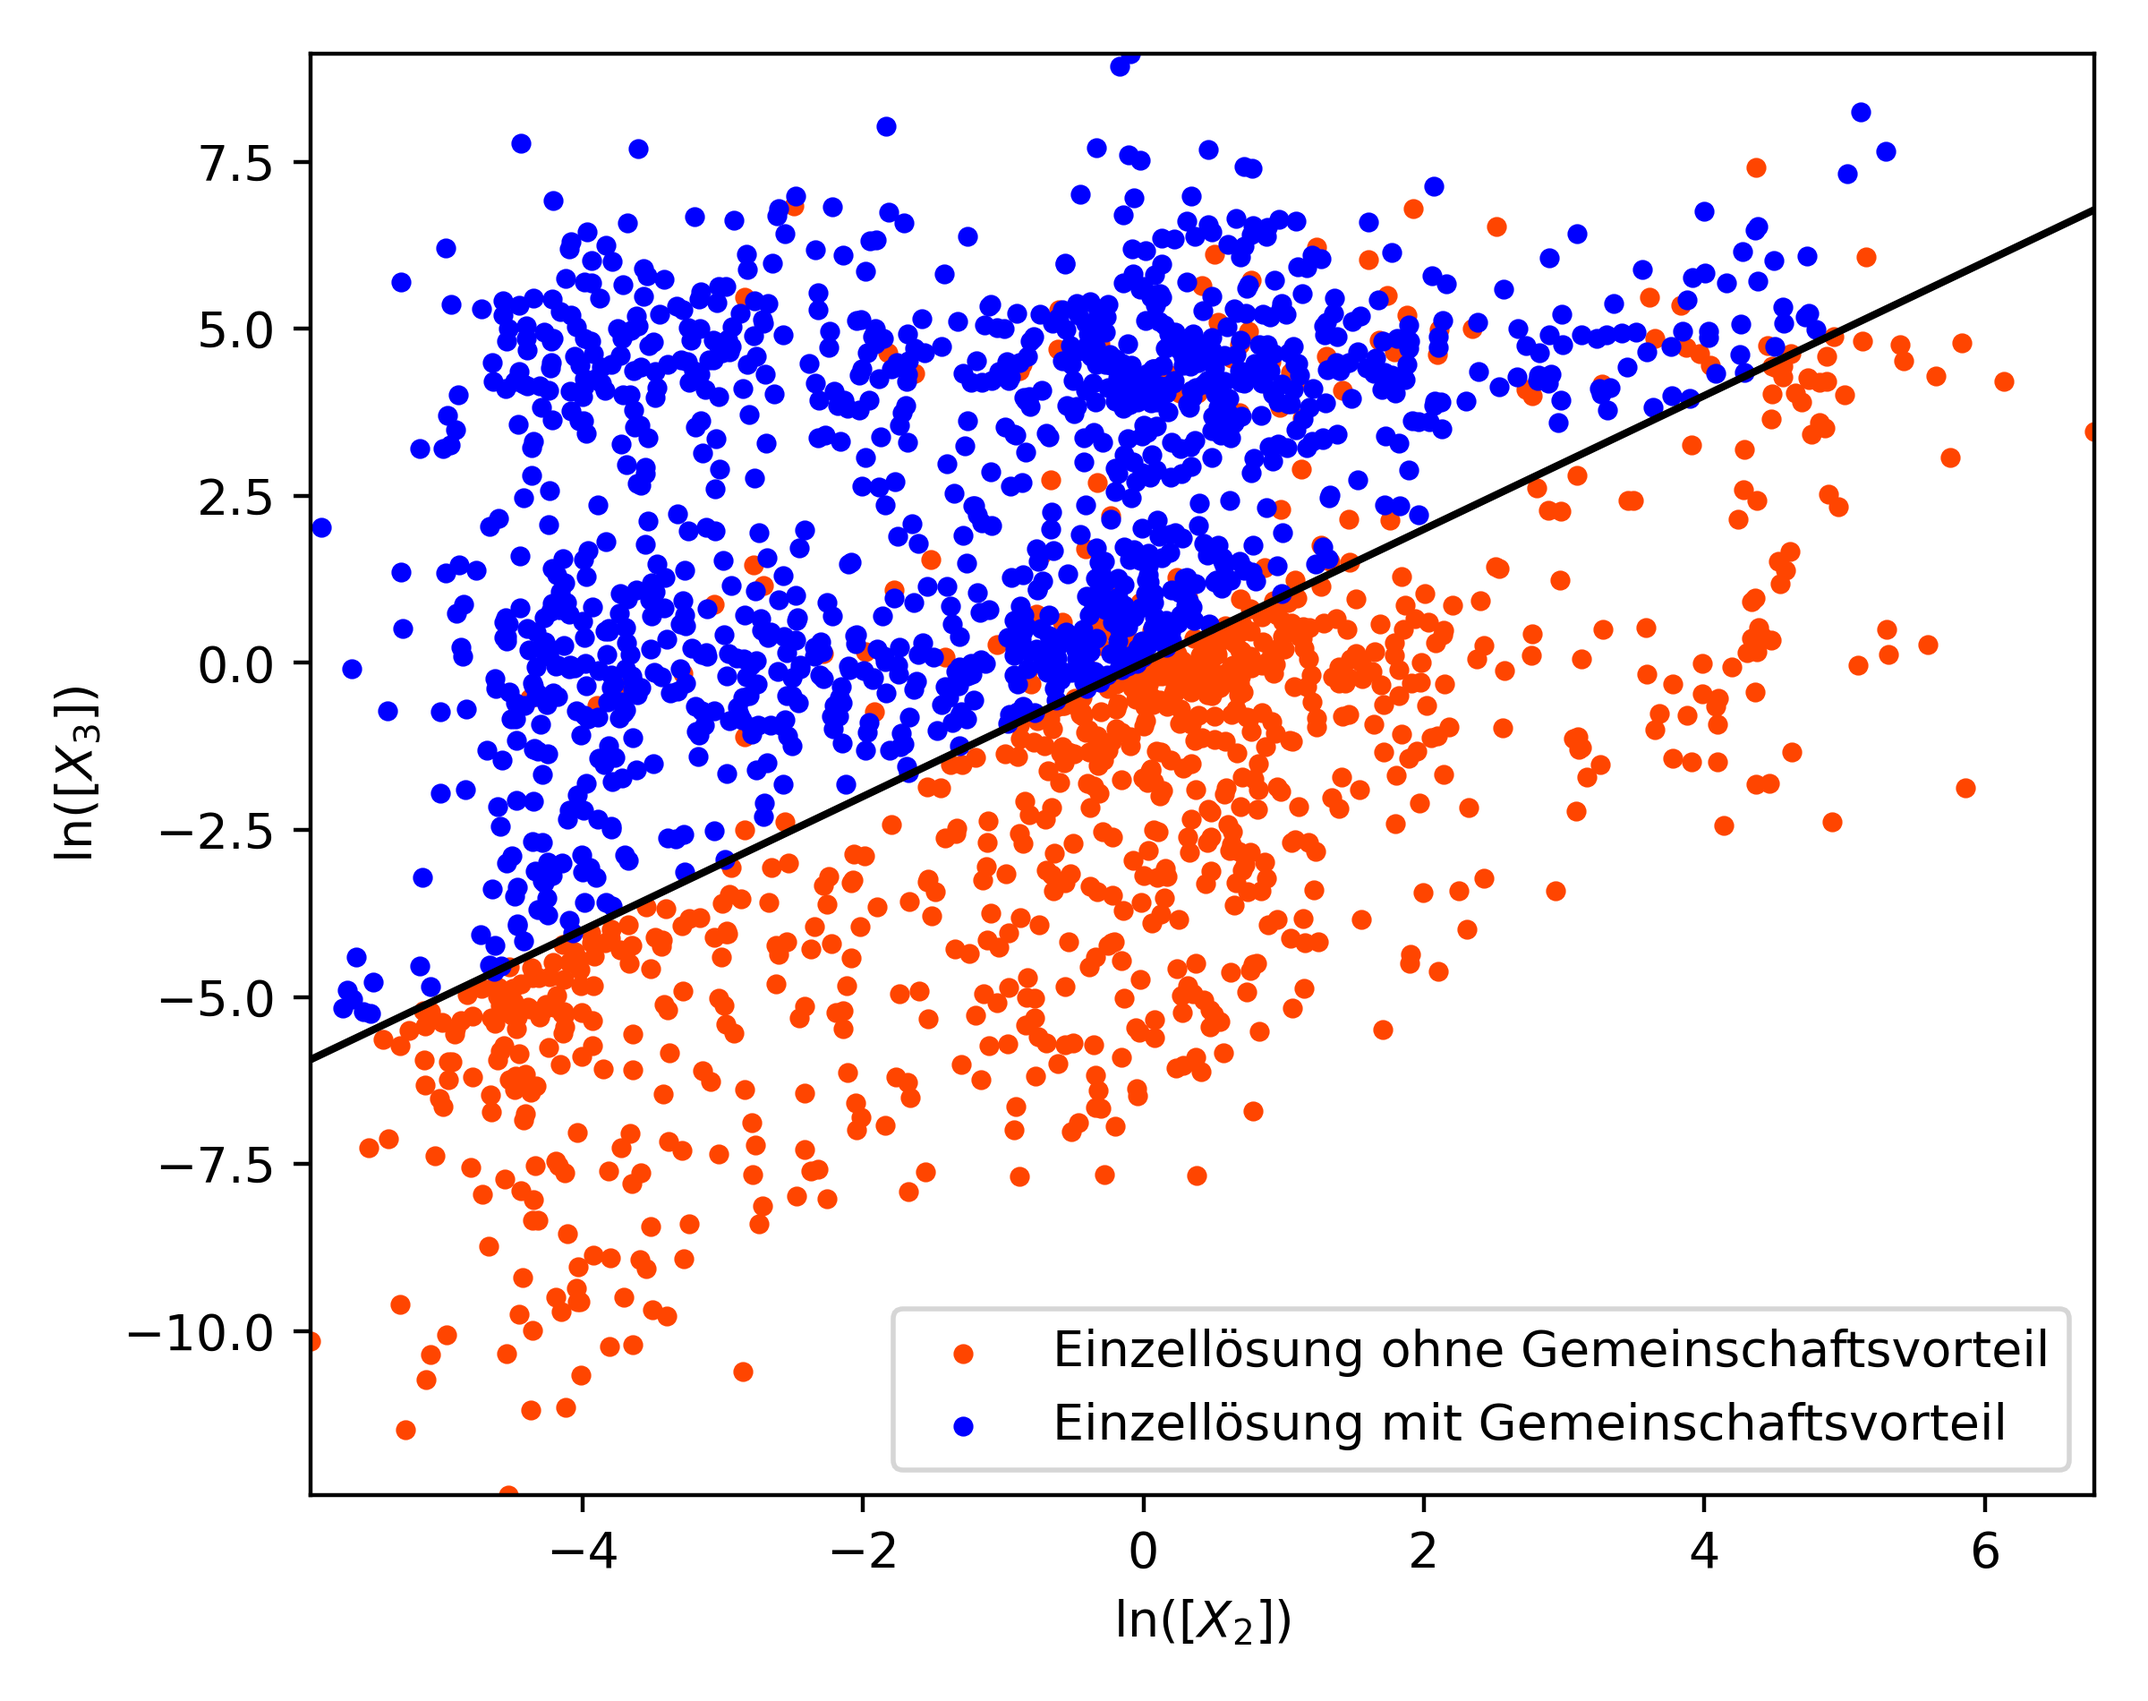
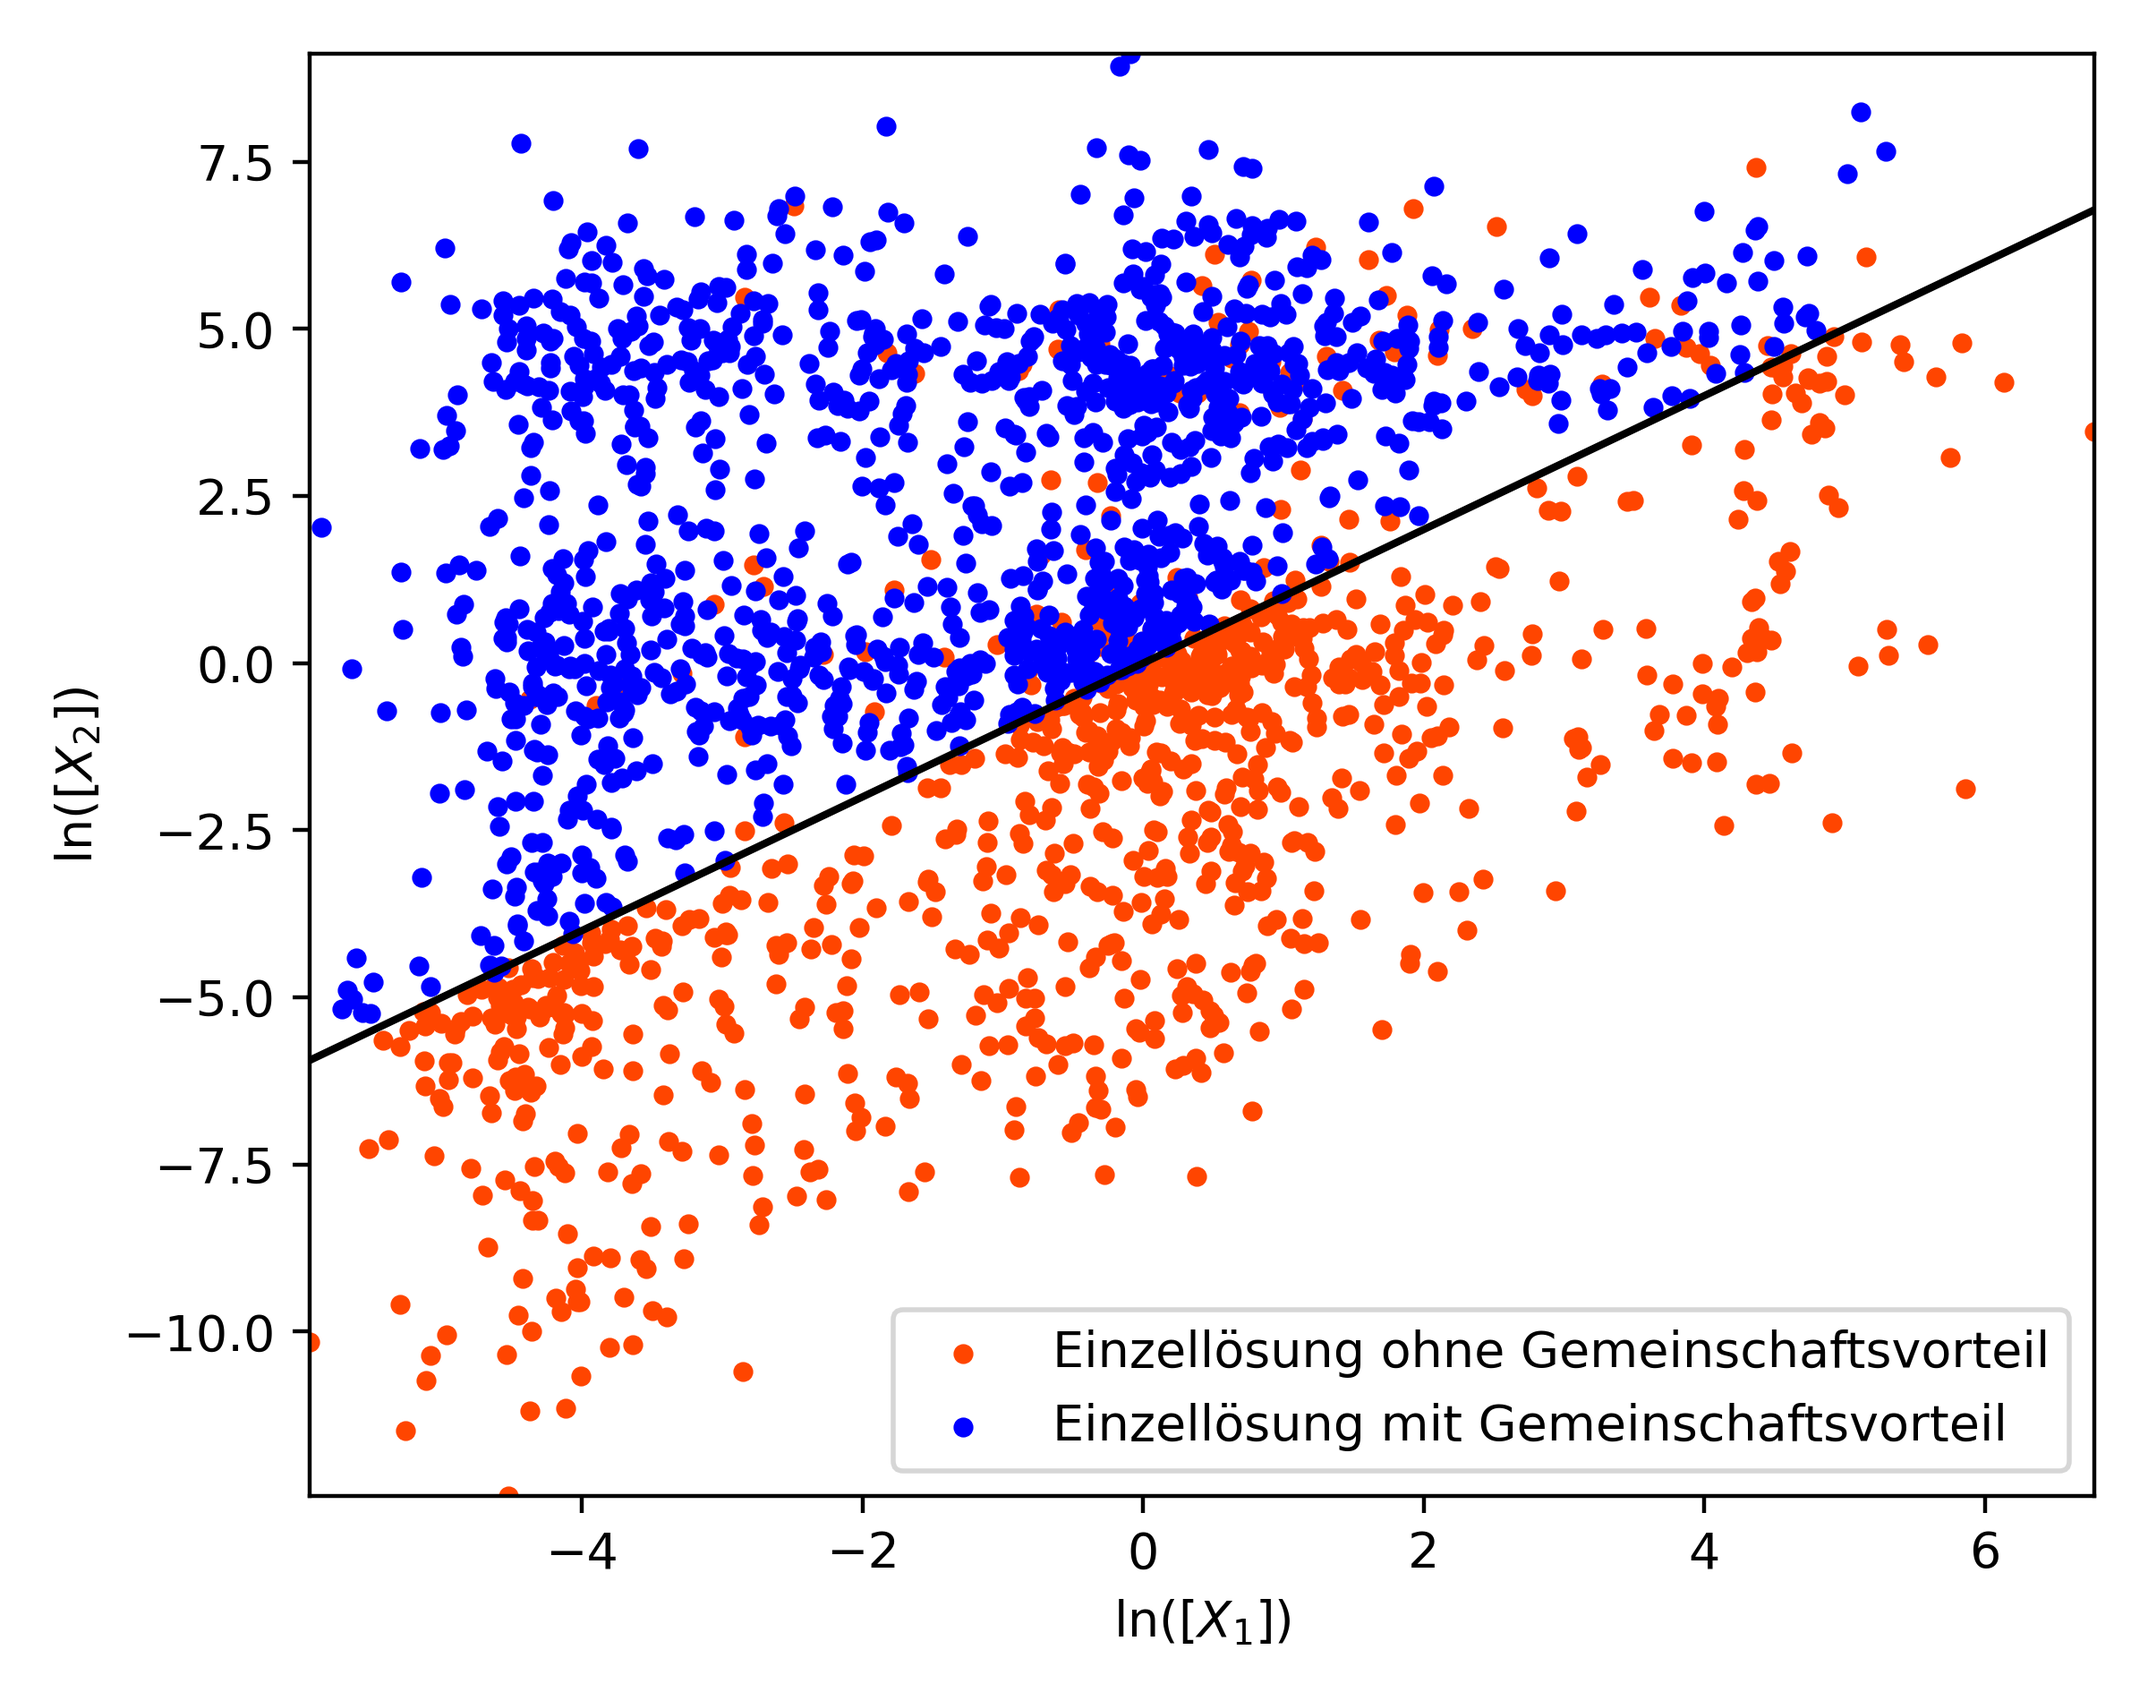
Fix titles

diff --git a/x_statistics.py b/x_statistics.py
@@ -97,8 +97,8 @@ for target_folder in target_folders:
 
     # Plot the line
     ax.plot([x1, x2], [y1, y2], marker='o', linestyle='-', c="black")
-    ax.set_xlabel(r'ln([$X_2$])')
-    ax.set_ylabel(r'ln([$X_3$])')
+    ax.set_xlabel(r'ln([$X_1$])')
+    ax.set_ylabel(r'ln([$X_2$])')
 
     all_x_X_2s = x_X_2s_no_advantage + x_X_2s_advantage
     all_x_X_2s = log(all_x_X_2s)
